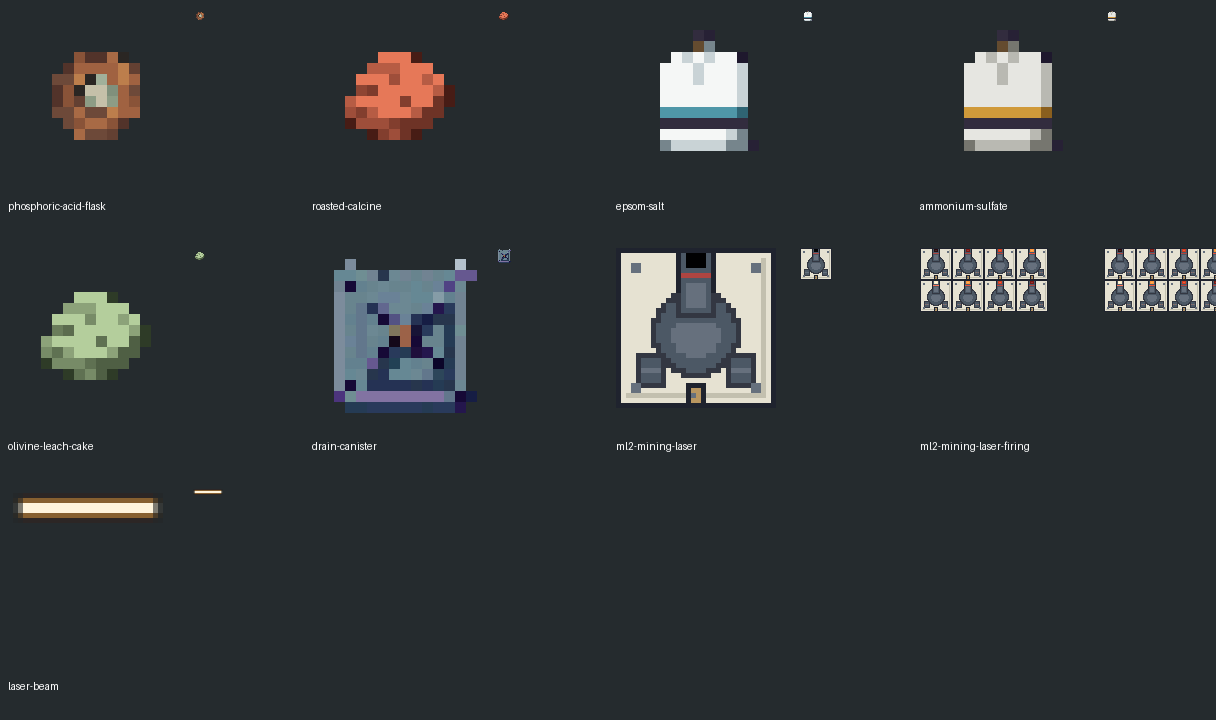
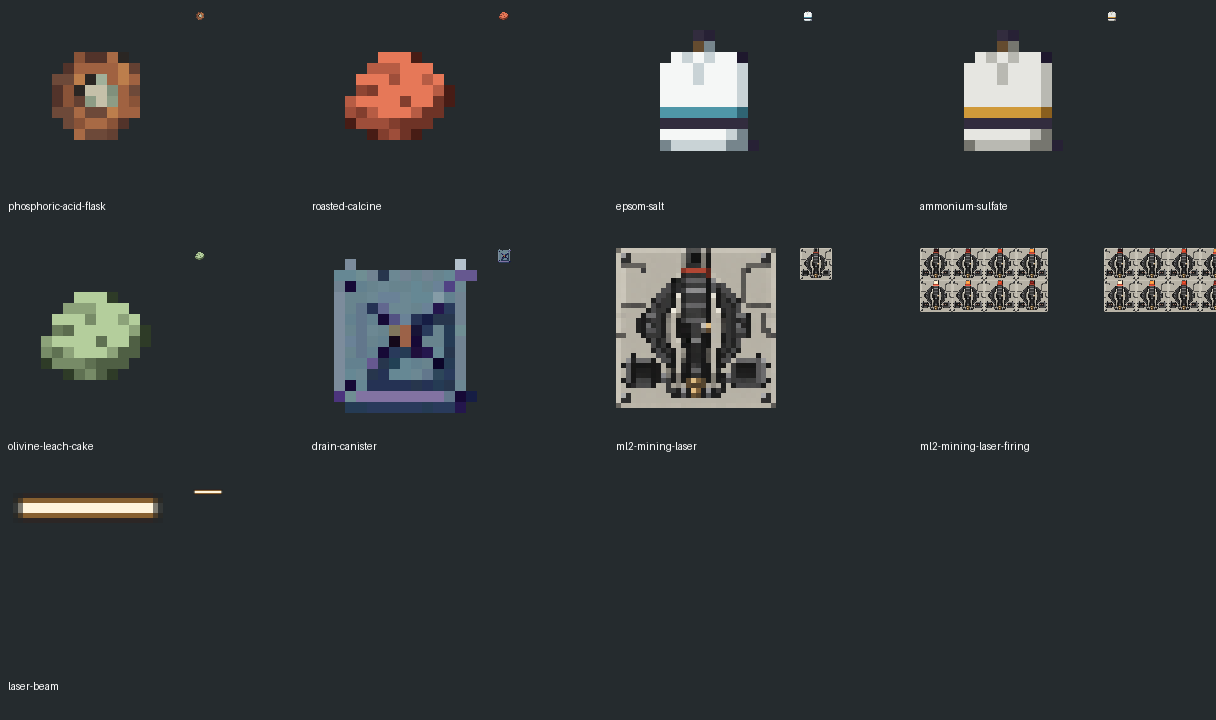
Refresh Ablatine ML-2 mining laser artwork

Changed region(s): [[0.5, 0.3361, 0.6875, 0.5806], [0.75, 0.3361, 0.875, 0.4583], [0.9062, 0.3361, 1.0, 0.4583]]

diff --git a/scripts/derive-laser-art.py b/scripts/derive-laser-art.py
@@ -1,6 +1,7 @@
 """Derives the Ablatine ML-2 firing frames, their sheet and the beam texture; never calls a provider.
 
-The eight frames are the selected overhead master with three small regions repainted in whole native pixels
+The retained Imagegen original is sampled to a registered 128 x 128 working master. The eight frames are that
+working master with three small regions repainted in whole native pixels
 (4 x 4 master pixels each): the lens port pulses from ember to white-hot and back, the collar behind it warms at
 the peak, and two pixels on each radiator fin alternate. Nothing else moves, so the head never shifts between
 frames. The sheet is the frames tiled four across and two down, top row first, which is the order the game's
@@ -12,15 +13,20 @@ for the native exports.
 from pathlib import Path
 import argparse
 import io
-from PIL import Image
+from PIL import Image, ImageDraw
 
 ROOT = Path(__file__).resolve().parents[1]
 SOURCE = ROOT / 'assets/artwork-completion/source'
-MASTER = SOURCE / 'ml2-mining-laser.png'
-FRAMES = SOURCE / 'ml2-mining-laser-frames'
-SHEET = SOURCE / 'ml2-mining-laser-sheet.png'
+ORIGINAL = SOURCE / 'ml2-mining-laser-v2-original.png'
+MASTER = SOURCE / 'ml2-mining-laser-v2.png'
+FRAMES = SOURCE / 'ml2-mining-laser-v2-frames'
+SHEET = SOURCE / 'ml2-mining-laser-v2-sheet.png'
 BEAM = SOURCE / 'laser-beam.png'
+PREVIEW = SOURCE.parent / 'ml2-v2-native-preview.png'
+COMPARISON = SOURCE.parent / 'ml2-v2-comparison.png'
+ANIMATION = SOURCE.parent / 'ml2-v2-firing-preview.gif'
 SCALE, NATIVE, COLUMNS, ROWS = 4, 32, 4, 2
+PREVIEW_SCALE, PREVIEW_FRAME_MS = 16, 80
 
 # Native-pixel regions, inclusive, on the 32 x 32 head. The exporter verifies that nothing outside them changes.
 LENS = (14, 1, 17, 3)
@@ -76,17 +82,41 @@ def main():
     parser = argparse.ArgumentParser(description=__doc__)
     parser.add_argument('--check', action='store_true')
     args = parser.parse_args()
-    with Image.open(MASTER) as image:
-        master = image.convert('RGBA')
-    if master.size != (NATIVE * SCALE, NATIVE * SCALE) or master.getchannel('A').getextrema() != (255, 255):
-        raise ValueError('The ML-2 master must be an opaque 128 x 128 image.')
+    with Image.open(ORIGINAL) as image:
+        original = image.convert('RGBA')
+    if original.width != original.height or original.width < NATIVE * SCALE or original.getchannel('A').getextrema() != (255, 255):
+        raise ValueError('The ML-2 original must be an opaque square at least 128 x 128.')
+    # Preserve the untouched provider original. A common registration sample makes the still and all eight frames
+    # identical outside the authored pulse regions even when the provider returns a non-integer native multiple.
+    master = original.resize((NATIVE * SCALE, NATIVE * SCALE), Image.Resampling.NEAREST)
     frames = [frame(master, index) for index in range(COLUMNS * ROWS)]
     sheet = Image.new('RGBA', (NATIVE * SCALE * COLUMNS, NATIVE * SCALE * ROWS))
     for index, image in enumerate(frames):
         sheet.paste(image, ((index % COLUMNS) * NATIVE * SCALE, (index // COLUMNS) * NATIVE * SCALE))
-    outputs = {FRAMES / f'{index}.png': png_bytes(image) for index, image in enumerate(frames)}
+    outputs = {MASTER: png_bytes(master)}
+    outputs.update({FRAMES / f'{index}.png': png_bytes(image) for index, image in enumerate(frames)})
     outputs[SHEET] = png_bytes(sheet)
     outputs[BEAM] = png_bytes(beam())
+    native = master.resize((NATIVE, NATIVE), Image.Resampling.NEAREST)
+    enlarged = native.resize((NATIVE * PREVIEW_SCALE, NATIVE * PREVIEW_SCALE), Image.Resampling.NEAREST)
+    outputs[PREVIEW] = png_bytes(enlarged)
+    with Image.open(SOURCE / 'ml2-mining-laser.png') as image:
+        previous = image.convert('RGBA').resize((NATIVE, NATIVE), Image.Resampling.NEAREST)
+    comparison = Image.new('RGB', (1088, 576), (28, 30, 34))
+    draw = ImageDraw.Draw(comparison)
+    draw.text((16, 12), 'Previous PixelLab sprite - 32 x 32, enlarged 16x', fill='white')
+    draw.text((560, 12), 'Revised Imagegen sprite - 32 x 32, enlarged 16x', fill='white')
+    comparison.paste(previous.resize(enlarged.size, Image.Resampling.NEAREST), (16, 40))
+    comparison.paste(enlarged, (560, 40))
+    outputs[COMPARISON] = png_bytes(comparison)
+    animation = [image.resize((NATIVE, NATIVE), Image.Resampling.NEAREST).resize(enlarged.size, Image.Resampling.NEAREST)
+                 for image in frames]
+    stream = io.BytesIO()
+    # GIF delays have 10 ms precision; 80 ms approximates the unchanged native 12 fps. This is a preview, not a
+    # runtime animation input, and is not evidence of Unity playback or the independently rendered beam.
+    animation[0].save(stream, format='GIF', save_all=True, append_images=animation[1:],
+                      duration=PREVIEW_FRAME_MS, loop=0, disposal=2)
+    outputs[ANIMATION] = stream.getvalue()
     stale = []
     for path, payload in outputs.items():
         if args.check:
@@ -97,7 +127,7 @@ def main():
             path.write_bytes(payload)
     if stale:
         raise SystemExit('Missing/stale laser art: ' + ', '.join(stale))
-    print(f'{"Verified" if args.check else "Derived"} {len(frames)} firing frames, the sheet and the beam texture.')
+    print(f'{"Verified" if args.check else "Derived"} the working master, {len(frames)} firing frames, sheet, beam and previews.')
 
 
 if __name__ == '__main__':

diff --git a/scripts/export-completion-art.py b/scripts/export-completion-art.py
@@ -42,6 +42,13 @@ def main():
         derived = entry.get('reduction')
         if master.size != tuple(entry['masterSize']) or (not derived and any(a < b * factor for a, b in zip(master.size, native))):
             raise ValueError(f'Insufficient/unexpected master dimensions: {source}')
+        if entry.get('productionSource'):
+            original = ASSETS / entry['productionSource']
+            if hashlib.sha256(original.read_bytes()).hexdigest() != entry['productionSHA256']:
+                raise ValueError(f'Changed retained production original: {original}')
+            with Image.open(original) as image:
+                if image.size != tuple(entry['productionSize']) or any(a < b * factor for a, b in zip(image.size, native)):
+                    raise ValueError(f'Insufficient/unexpected production original dimensions: {original}')
         bounds = master.getchannel('A').getbbox()
         # A full-footprint fixture (a deck-mounted tank or cabinet, like the game's own square-deck machinery)
         # deliberately covers its whole tile square: it must be opaque edge to edge rather than padded.

diff --git a/docs/development/mining-laser-design.md b/docs/development/mining-laser-design.md
@@ -149,15 +149,37 @@ energy.
 
 ## Artwork
 
-One PixelLab generation (`create_image_pixflux`, 128 x 128, overhead settings,
-from an original procedural start drawing) gave the selected head. The eight
-firing frames and the beam texture are derived mechanically by
-`scripts/derive-laser-art.py`: the lens port pulses, the collar behind it warms
+The initial 1 October artwork used one PixelLab generation (`create_image_pixflux`,
+128 x 128, overhead settings, from an original procedural start drawing) for the
+selected head. The eight firing frames and the beam texture were derived
+mechanically by `scripts/derive-laser-art.py`: the lens port pulses, the collar behind it warms
 at the peak and two pixels on each fin alternate; the exporter verifies that no
 other pixel differs from the still image. Requests, seeds, hashes and the
 derivation are in `assets/artwork-completion/mining-laser-requests.json`. No
 level gauge or other reading is painted; the pulse is the head's physical
 state.
+
+**4 October visual revision.** The owner requested improved graphics after finding
+the PixelLab head unsatisfactory. Built-in ChatGPT Imagegen produced an original
+overhead chassis, then a targeted simplification of that chassis for the existing
+32 x 32 native sprite. The revised head has a ribbed emitter, a separate bearing
+and cradle, rear heat-exchanger blocks and a brass service connection. These
+fictional details describe the equipment; they are not a new measured laser model.
+No scientific or game artwork was submitted to the generator.
+
+The untouched 1254 x 1254 result is retained alongside a nearest-neighbour
+128 x 128 working master. All eight firing frames are derived from that common
+master, and the exporter checks that only the declared lens, collar and fin
+regions change. The existing beam texture, neutral normals, 2 x 2 footprint,
+top-centre emitter anchor, shared damage tint and gameplay are unchanged. A larger
+source does not make the world sprite larger or reveal all its detail at 32 pixels.
+
+The [revised request record](../../assets/artwork-completion/mining-laser-v2-requests.json)
+contains both exact prompts, source hashes and the native-scale review.
+The [comparison](../../assets/artwork-completion/ml2-v2-comparison.png) and
+[firing preview](../../assets/artwork-completion/ml2-v2-firing-preview.gif) are
+offline previews; the GIF uses 80 ms frames, approximating the unchanged native
+12 fps. The previous used PixelLab sources and their historical records remain.
 
 Not yet seen in the game: whether the light-sprite pass draws the beam as
 bright as intended, the quad's pivot, how the beam looks over tiles hidden from

diff --git a/assets/artwork-completion/README.md b/assets/artwork-completion/README.md
@@ -138,3 +138,35 @@ image. Every request, seed, setting, hash and derivation is in
 decreased from 1,739 to 1,738 with $0 credit and no purchases. Only the original
 Phobos drawing was uploaded. Nothing was rejected. The design record is
 [the mining laser design](../../docs/development/mining-laser-design.md).
+
+## Mining laser revision — 4 October 2026
+
+At the owner's request, built-in ChatGPT Imagegen replaces the selected ML-2 head.
+Two calls produced the detailed first pass and one simplification for native-scale
+readability. The owner approved the revised image on 4 October 2026. In-game
+lighting and animation checks remain pending. The first pass remains in `references/ml2-v2-detail-input.png` because
+it is the selected result's input; the untouched selected 1254 x 1254 source is
+`source/ml2-mining-laser-v2-original.png`. Only original Phobos imagery and text
+were submitted. No game textures, screenshots or PixelLab assets were uploaded.
+The tool did not return billing details or a model name; no API key or PixelLab
+credit purchase was used.
+
+`scripts/derive-laser-art.py` samples that source to the registered 128 x 128
+working master, `source/ml2-mining-laser-v2.png`, then derives the eight frames
+and `source/ml2-mining-laser-v2-sheet.png`. The manifest selects those working
+sources; `productionSource`, dimensions and SHA-256 also preserve and verify the
+larger original. Native exports remain 32 x 32 for the head and 128 x 64 for the
+4 x 2 firing sheet. They retain the existing top-centre beam anchor, neutral
+normal maps, shared loose/damaged appearance and authored pulse regions. The beam
+texture is unchanged. Previous used PixelLab sources and frames remain at their
+original paths with [their historical record](mining-laser-requests.json).
+
+Both prompts, returned dimensions, hashes and review limits are in
+[the new provenance record](mining-laser-v2-requests.json).
+The repeatable [comparison](ml2-v2-comparison.png),
+[native enlargement](ml2-v2-native-preview.png) and
+[firing preview](ml2-v2-firing-preview.gif) show the 32-pixel derivative enlarged
+without smoothing. The GIF approximates 12 fps using 80 ms frames; it is not a
+game input or evidence of Unity playback. Actual lighting, beam blending and
+rotated appearance remain owner-run checks. AI artwork provenance and code
+licensing remain separate; see [the notices](../../THIRD_PARTY_NOTICES.md#mining-laser-artwork).

diff --git a/THIRD_PARTY_NOTICES.md b/THIRD_PARTY_NOTICES.md
@@ -90,6 +90,17 @@ the built-in Imagegen tool. The faceplate references our approved Auto Nav art.
 [Prompts, sources and export provenance](assets/phobos-industrial-console/README.md)
 are retained; no extracted game graphics are included.
 
+## Mining laser artwork
+
+The revised Ablatine ML-2 chassis uses original built-in ChatGPT Imagegen artwork,
+with mechanically registered firing frames and native-size exports. Only text and
+the first original Phobos Imagegen result were supplied to the generator; no game
+or third-party imagery was submitted. The previous used PixelLab masters remain
+with their dated records. Exact prompts, source hashes, review limits and the
+provider record are in [mining laser artwork provenance](assets/artwork-completion/mining-laser-v2-requests.json).
+AI artwork provenance remains separate from code licensing; no exclusive copyright,
+third-party clearance or institutional endorsement is claimed by this notice.
+
 ## Agriculture irrigation artwork
 
 Groundwork W2 uses an original ChatGPT/Imagegen overhead chassis; its conduits and

diff --git a/mods/PhobosShipbreaker/CHANGELOG.md b/mods/PhobosShipbreaker/CHANGELOG.md
@@ -6,6 +6,10 @@ Dates on Draft entries record preparation, not Steam publication.
 
 ## [Unreleased]
 
+### Changed
+
+- Redraw the Ablatine ML-2 mining laser with a ribbed emitter, a distinct bearing and cradle, rear cooling fins and a clearer service connection. Keep its eight-frame firing pulse aligned with the head. Retain high-resolution Imagegen originals, previous PixelLab artwork and repeatable native-size exports. The owner approved the design on 4 October; in-game lighting, beam and animation checks remain pending. Gameplay and saves are unchanged.
+
 ### Documentation
 
 - Prepare four construction sprites: D4 and R4 intermediate stages, plus early and intermediate F6 stages. Retain original frames, source images and repeatable exports. At preparation time these assets were not yet connected to construction progress or included in game packages; Framework 0.32.0 and Shipbreaker 0.32.0 below bind them to D4, R4 and F6 assembly stages.

diff --git a/docs/development/english-language-audit.md b/docs/development/english-language-audit.md
@@ -8,6 +8,12 @@ age/gender demographics.
 
 ## Coverage and decisions
 
+The 4 October 2026 ML-2 artwork revision reviewed its Unreleased changelog text,
+Workshop artwork credit and current design/provenance explanation against the
+crew-language rules. No translation entries, operating controls or reference
+instructions changed. Keep the fictional mechanics and offline visual review
+separate from scientific findings and gameplay validation.
+
 The [review ledger](../../config/english-language-audit.json) accounts for all
 **1,722 original catalogue entries** across Agriculture (226), Auto Nav (490), Framework
 (313), Manufacturing (1) and Shipbreaker (692), plus one new furnace warning
